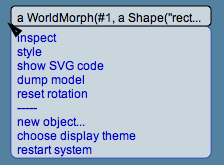
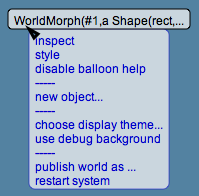
Tutorial improvements. Revised the screen snapshots to use the latest menus.

diff --git a/source/tutorial/Tutorial07-Windows.html b/source/tutorial/Tutorial07-Windows.html
@@ -26,6 +26,7 @@
         <img src="Tutorial07-Image2.PNG">
         <img src="Tutorial07-Image3.PNG">
         <img src="Tutorial07-Image4.PNG">
+        <img src="Tutorial07-Image5.PNG">
     <p>
     Notes:<ul>
     <li>A window can be moved by grabbing it from the title bar.
@@ -34,13 +35,14 @@
     restore the window.
     <li>The menu button opens a menu that allows the contents
     of the window to be manipulated.
-    <li>A window can be resized using the handles in its corners.
+    <li>A window can be resized or rotated using the handles in its corners.
     </ul>
     <p>
     <hr>
     <b>Try it yourself!</b> Move the window around by grabbing its title bar.
-    Try out the menus and the collapse/expand functionality.  Finally,
-    close the window by pressing the close button.
+    Try out the menus and the collapse/expand functionality.  <br>Furthermore,
+    try rotating and resizing the window. Finally,
+    close the window by pressing its close button.
     <p>
     <iframe src="Tutorial07-Windows.svg" hspace="20" width="60%" height="60%" align="center" frameborder="10"></iframe>
     <p>

diff --git a/source/tutorial/Tutorial06-CreatingAndRemoving.html b/source/tutorial/Tutorial06-CreatingAndRemoving.html
@@ -33,6 +33,8 @@
     <li>You can duplicate and remove composite objects by applying the "duplicate"
     or "remove" menu operation to the bottommost object in the composite.
     <li>You can duplicate or remove the contents of a selection tray as well.
+    <li>You can "tear" a copy of an object or composite object also by keeping 
+    the <i>Shift</i> key down while clicking and dragging an object.
     </ul>
     <p>
     <hr>

diff --git a/source/tutorial/Tutorial06-CreatingAndRemoving.js b/source/tutorial/Tutorial06-CreatingAndRemoving.js
@@ -2,6 +2,9 @@
  * @class TutorialMorph
  */
 
+// Ensure that we can "tear" a copy of an object by pressing the Shift key
+Config.shiftDragForDup = true;
+
 TutorialMorph = HostClass.create('TutorialMorph', Morph);
 
 Object.extend(TutorialMorph.prototype, {
